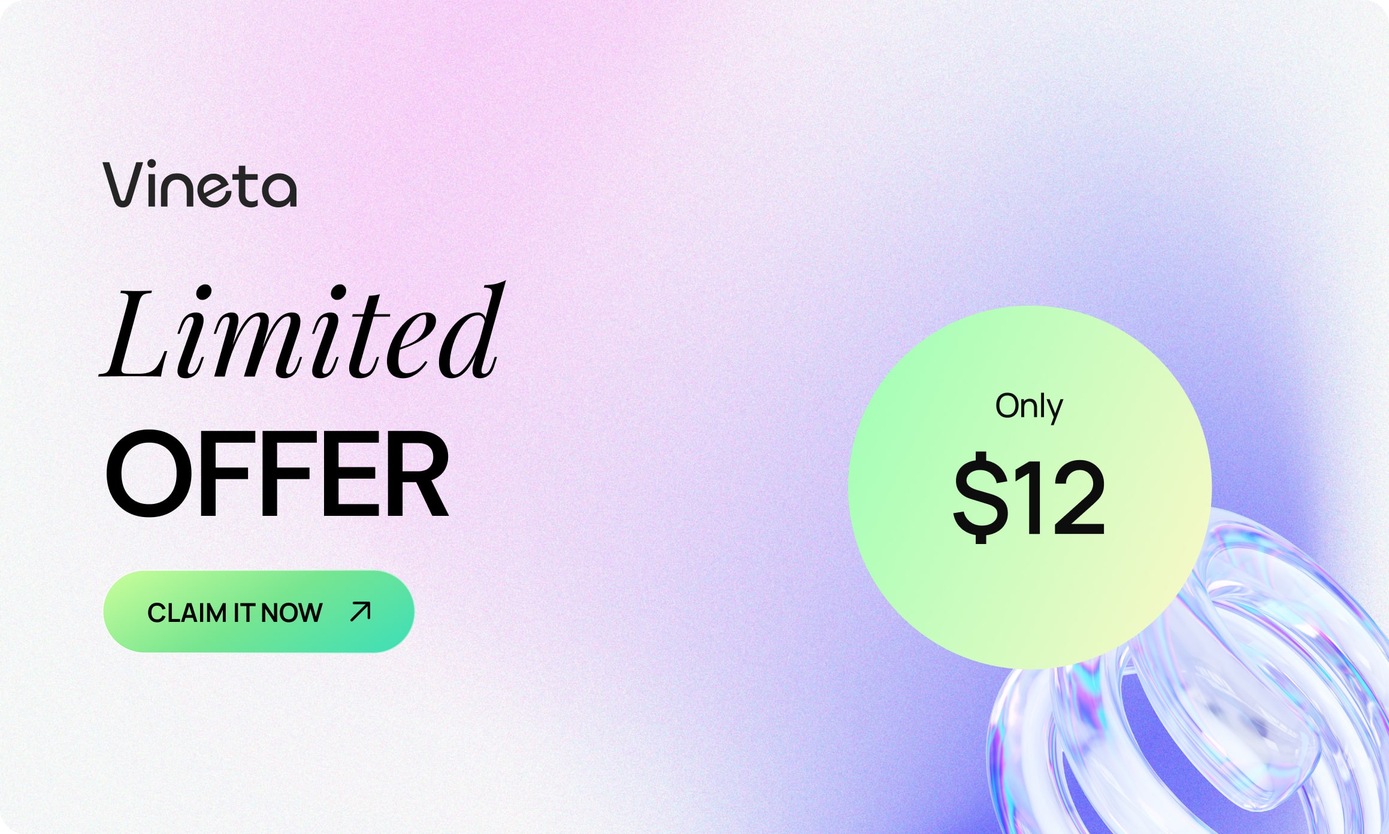
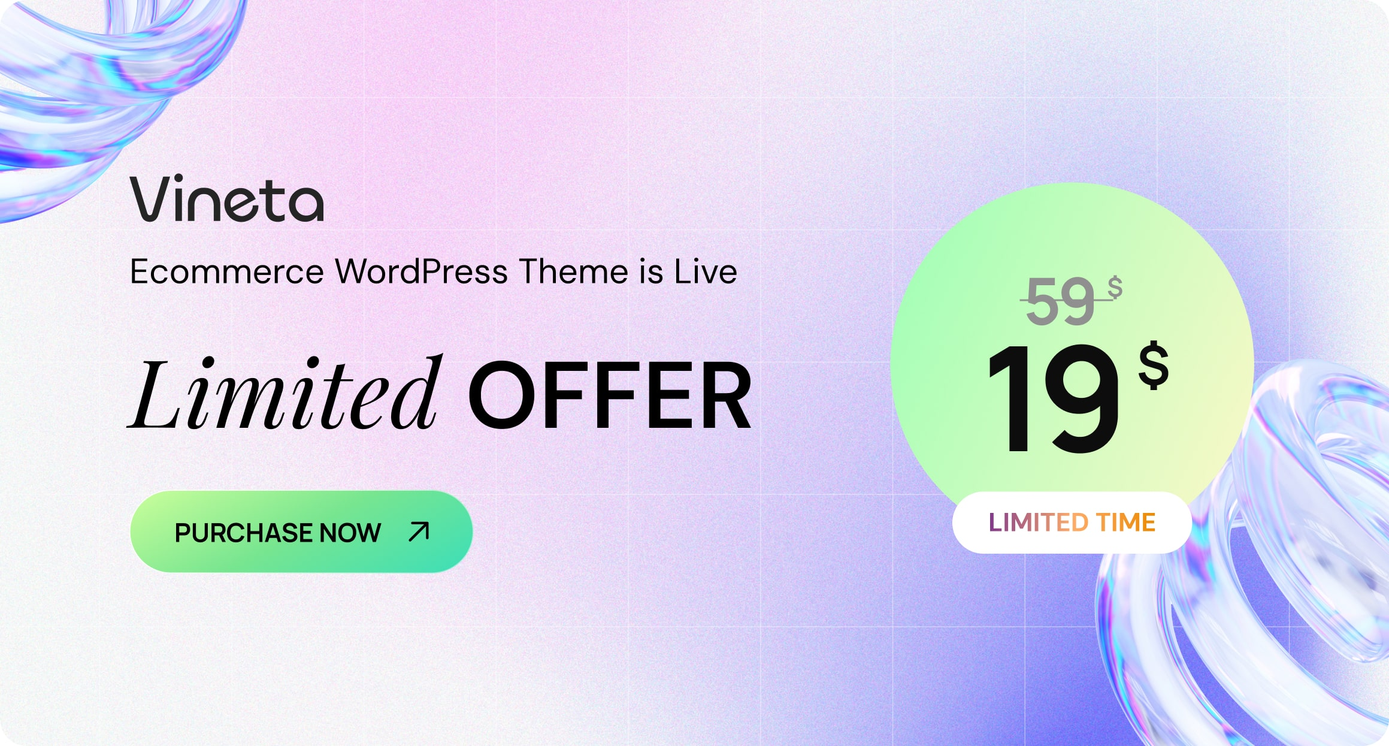
up

diff --git a/index.html b/index.html
@@ -56,7 +56,7 @@
                     <path d="M9.76187 8L15.7444 2.01717C15.909 1.85248 15.9998 1.63276 16.0001 1.39846C16.0001 1.16404 15.9093 0.944061 15.7444 0.779628L15.2202 0.255496C15.0554 0.0904124 14.8356 0 14.6011 0C14.3669 0 14.1472 0.0904124 13.9824 0.255496L7.9998 6.23793L2.01698 0.255496C1.85241 0.0904124 1.63256 0 1.39814 0C1.16398 0 0.944126 0.0904124 0.779562 0.255496L0.25504 0.779628C-0.0863155 1.12098 -0.0863155 1.67621 0.25504 2.01717L6.23774 8L0.25504 13.9826C0.0903465 14.1475 -0.000326114 14.3672 -0.000326114 14.6015C-0.000326114 14.8358 0.0903465 15.0555 0.25504 15.2204L0.779432 15.7445C0.943996 15.9095 1.16398 16 1.39801 16C1.63243 16 1.85228 15.9095 2.01685 15.7445L7.99967 9.76194L13.9822 15.7445C14.1471 15.9095 14.3668 16 14.601 16H14.6012C14.8355 16 15.0552 15.9095 15.22 15.7445L15.7443 15.2204C15.9089 15.0557 15.9997 14.8358 15.9997 14.6015C15.9997 14.3672 15.9089 14.1475 15.7443 13.9827L9.76187 8Z" fill="black"/>
                 </svg>
             </div>
-            <a class="relative" href="https://themeforest.net/item/vince-multipurpose-ecommerce-html5-template/57202368?s_rank=2" target="_blank">
+            <a class="relative" href="https://themeforest.net/item/vineta-multipurpose-woocommerce-wordpress-theme/58342505" target="_blank">
                 <img class="lazyload" src="images/banner-sale.jpg" alt="">
             </a>
         </div>
